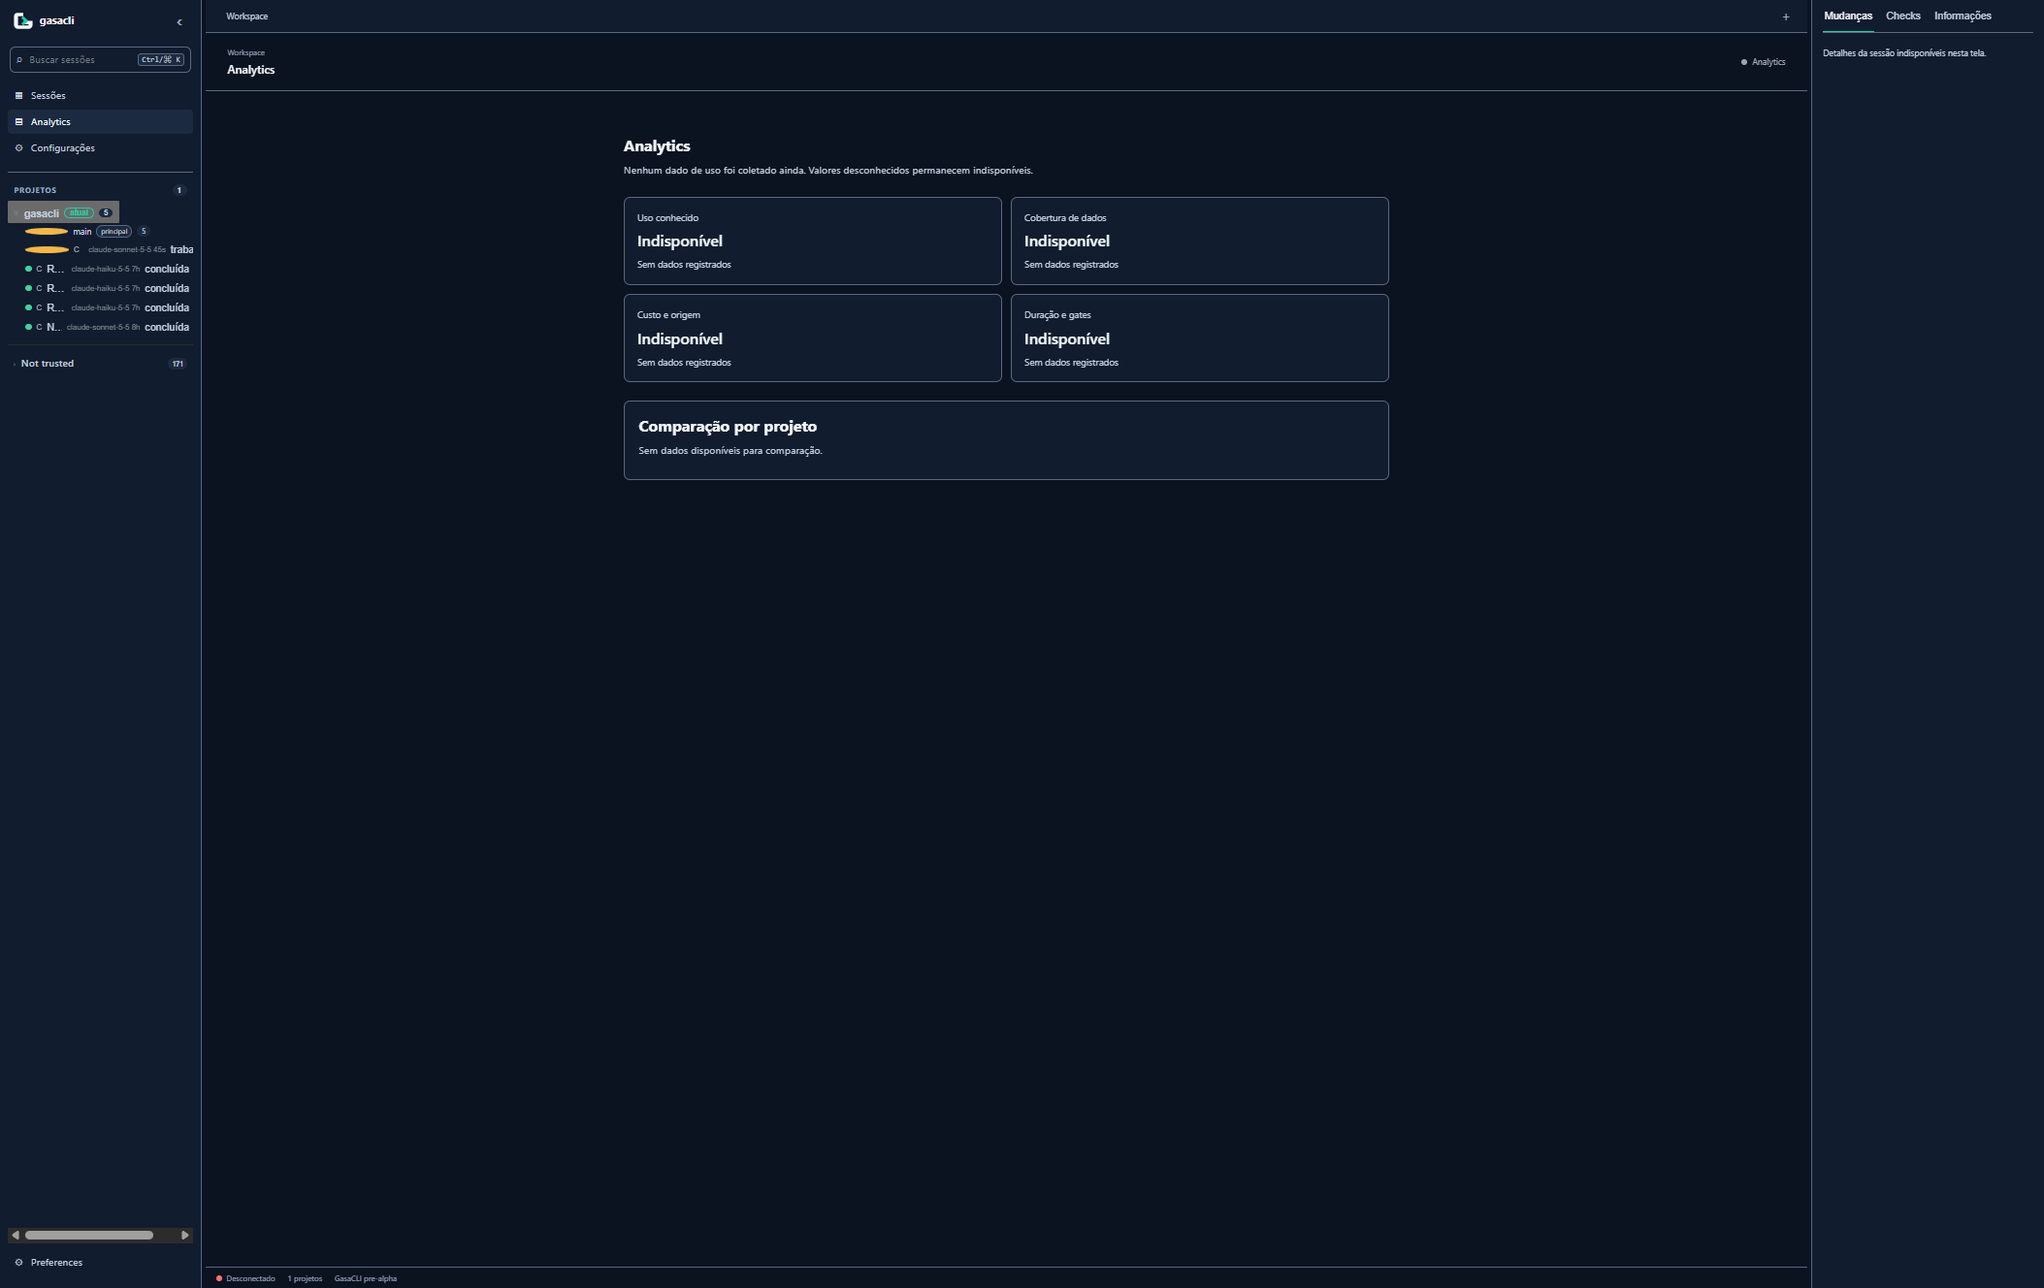
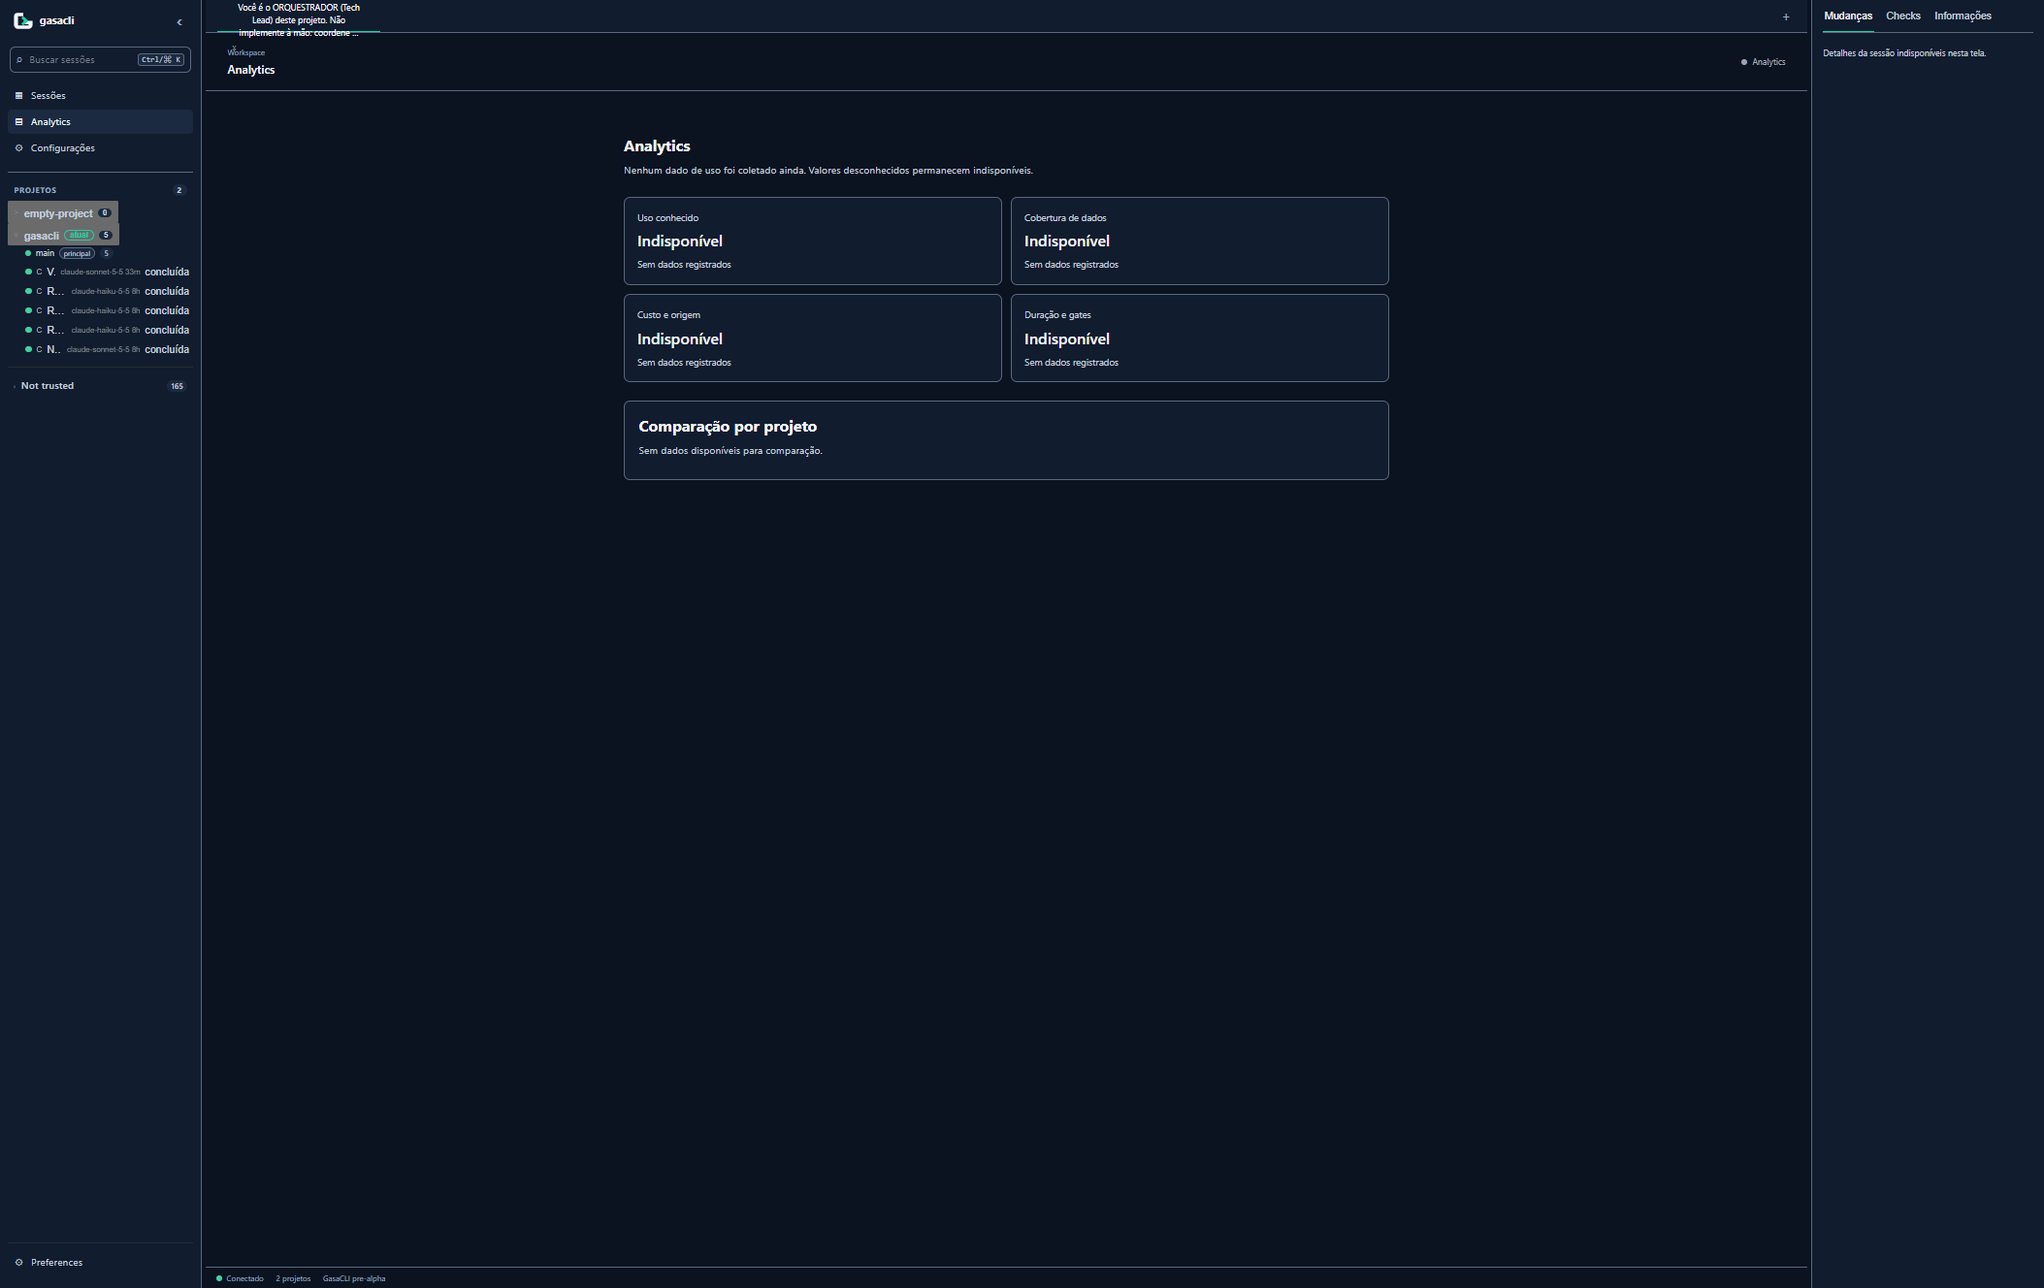
fix(web): canonicalize trusted project paths

diff --git a/internal/web/static/app.js b/internal/web/static/app.js
@@ -9,7 +9,7 @@ function drawProjects(){
  for(const project of state.projects){
   if(!project.trusted){const bucket=el('div','untrusted');const row=el('div','project-row');row.setAttribute('aria-expanded','false');row.append(el('span','chev','›'),el('span','session-name','Not trusted'),el('span','count-badge',String(project.sessionCount)));bucket.append(row);root.append(bucket);continue}
   visible++;const section=el('section','project');const row=el('button','project-row');row.type='button';row.setAttribute('role','treeitem');row.setAttribute('aria-expanded',String(!state.collapsed.has(project.id)));row.append(el('span','chev',state.collapsed.has(project.id)?'>':'v'),el('span','session-name',project.name));if(project.current)row.append(el('span','current-pill','atual'));row.append(el('span','count-badge',String(project.sessionCount)));section.append(row);
-  row.addEventListener('click',()=>{state.activeProject=project.id;state.collapsed.has(project.id)?state.collapsed.delete(project.id):state.collapsed.add(project.id);if(!project.sessionCount)projectOverview(project);drawProjects()});
+  row.addEventListener('click',()=>{state.activeProject=project.id;state.collapsed.has(project.id)?state.collapsed.delete(project.id):state.collapsed.add(project.id);drawProjects();projectOverview(project)});
   if(!state.collapsed.has(project.id)){
    for(const worktree of project.worktrees||[]){const linked=(project.sessions||[]).filter(session=>session.worktreeId===worktree.id);const status=linked.some(session=>session.status==='working')?'working':linked.length?'done':'idle';const branchRow=el('div','branch-row');branchRow.append(el('span',`dot ${status}`),document.createTextNode(worktree.branch||'detached'),el('span','primary-pill',worktree.branch==='main'?'principal':'worktree'),el('span','count-badge',String(linked.length)));section.append(branchRow);for(const session of linked){if(state.search&&!(`${session.title} ${session.model} ${session.agent}`.toLowerCase().includes(state.search)))continue;const button=el('button','session-row'+(state.session?.id===session.id?' active':''));button.type='button';button.setAttribute('role','treeitem');button.setAttribute('aria-label',`${session.status}: ${session.title||'Sessão sem título'}`);const statusLabel=el('span','session-status',session.status==='working'?'trabalhando':session.status==='done'?'concluída':session.status==='error'?'erro':'ociosa');button.append(el('i',`dot ${session.status}`),el('span','agent-glyph',session.agent==='Codex'?'X':'C'),el('span','session-name',session.title||'Sessão sem título'),el('span','meta',`${session.model||session.agent} ${age(session.updatedAt)}`),statusLabel);button.addEventListener('click',()=>openSession(project,session));section.append(button)}}
   }
@@ -50,7 +50,13 @@ function paintTheme(theme){document.documentElement.dataset.theme=theme;const ma
 function addCard(parent,label,value,hint){const card=el('article','overview-card');card.append(el('div','overview-label',label),el('strong','overview-value',value),el('div','overview-hint',hint));parent.append(card)}
 function projectOverview(project){state.view='workspace';state.session=null;$('#crumb').textContent=`Projetos / ${project.name}`;$('#session-title').textContent=project.name;$('#session-state').classList.remove('working');$('#session-state').querySelector('span').textContent='Visão do projeto';$('#working').classList.add('hidden');$('#composer').classList.add('hidden');const chat=$('#chat');chat.replaceChildren();const page=el('section','overview-page');page.setAttribute('aria-labelledby','overview-heading');const heading=el('div','overview-heading');heading.append(el('div','crumb',project.current?'Projeto atual':'Projeto confiável'),el('h2','','Visão geral'),el('p','overview-path',project.path||'Caminho indisponível'));page.append(heading);const cards=el('div','overview-cards');addCard(cards,'Sessões',String(project.sessionCount),'Sessões locais encontradas');addCard(cards,'Agentes prontos','Indisponível','Estado de disponibilidade não coletado');const latest=(project.sessions||[]).reduce((a,b)=>!a||new Date(b.updatedAt)>new Date(a.updatedAt)?b:a,null);addCard(cards,'Última atividade',latest?age(latest.updatedAt):'Indisponível',latest?latest.title:'Nenhuma atividade de sessão encontrada');page.append(cards);if(!project.sessionCount)page.append(el('p','no-sessions','Nenhuma sessão ainda — inicie Claude Code ou Codex nesta pasta.'));const links=el('nav','quick-links');links.setAttribute('aria-label','Links rápidos');const docs=el('a','secondary-button','Abrir documentação');docs.href='https://github.com/GasaTec/gasacli/tree/main/docs';docs.target='_blank';docs.rel='noreferrer';links.append(docs,viewLink('Configurações','settings'),viewLink('Analytics','analytics'));page.append(links);const checklist=el('section','checklist');checklist.append(el('h3','','Próximos passos'));for(const text of ['Inicie Claude Code ou Codex nesta pasta para criar uma sessão.','Selecione uma sessão para consultar mensagens e atividade.','Use o painel lateral para consultar mudanças e informações da sessão.'])checklist.append(el('p','checklist-item',text));page.append(checklist);chat.append(page);$('#detail-content').replaceChildren(el('div','detail-empty','Selecione uma sessão para consultar mudanças, checks e informações.'));$('#composer').classList.add('hidden')}
 function viewLink(label,view){const button=el('button','secondary-button',label);button.type='button';button.addEventListener('click',()=>showView(view));return button}
-function showView(view){state.view=view;state.session=null;$('#working').classList.add('hidden');$('#composer').classList.add('hidden');$('#session-state').classList.remove('working');$('#session-state').querySelector('span').textContent=view==='settings'?'Configurações':'Analytics';$('#crumb').textContent='Workspace';const chat=$('#chat');chat.replaceChildren();$('#detail-content').replaceChildren(el('div','detail-empty','Detalhes da sessão indisponíveis nesta tela.'));if(view==='settings'){renderSettings(chat);$('#session-title').textContent='Configurações';return}$('#session-title').textContent='Analytics';renderAnalytics(chat)}
+function showView(view){
+ state.view=view;state.session=null;$('#working').classList.add('hidden');$('#composer').classList.add('hidden');$('#session-state').classList.remove('working');$('#session-state').querySelector('span').textContent=view==='settings'?'Configurações':view==='workspace'?'Visão do projeto':'Analytics';$('#crumb').textContent='Workspace';
+ const chat=$('#chat');chat.replaceChildren();$('#detail-content').replaceChildren(el('div','detail-empty','Detalhes da sessão indisponíveis nesta tela.'));
+ if(view==='workspace'){const project=state.projects.find(item=>item.id===state.activeProject&&item.trusted)||state.projects.find(item=>item.current&&item.trusted)||state.projects.find(item=>item.trusted);projectOverview(project||{name:'Workspace',path:'',sessionCount:0,sessions:[]});return}
+ if(view==='settings'){renderSettings(chat);$('#session-title').textContent='Configurações';return}
+ $('#session-title').textContent='Analytics';renderAnalytics(chat)
+}
 async function renderSettings(root){const page=el('section','settings-page');page.append(el('p','page-intro','Preferências do dashboard local.'));const group=el('section','settings-group');group.append(el('h2','','Inicialização do dashboard'),el('p','','Escolha quando o dashboard deve iniciar. A alteração é salva na configuração local.'));const label=el('label','setting-label','Modo de inicialização');const select=document.createElement('select');select.id='web-mode';for(const [value,title] of [['auto','Automático'],['manual','Manual'],['always','Sempre']]){const option=document.createElement('option');option.value=value;option.textContent=title;select.append(option)}label.append(select);group.append(label);const save=el('button','primary-button','Salvar modo');save.type='button';const result=el('p','setting-result','');save.addEventListener('click',async()=>{save.disabled=true;try{const response=await fetch('/api/settings',{method:'POST',credentials:'same-origin',headers:{'Content-Type':'application/json',Accept:'application/json'},body:JSON.stringify({webMode:select.value})});if(!response.ok)throw new Error();result.textContent='Modo salvo.'}catch{result.textContent='Não foi possível salvar o modo.'}finally{save.disabled=false}});group.append(save,result);page.append(group);const appearance=el('section','settings-group');appearance.append(el('h2','','Aparência e idioma'));const themeLabel=el('label','setting-label','Tema');const theme=document.createElement('select');for(const value of ['dark','light']){const option=document.createElement('option');option.value=value;option.textContent=value==='dark'?'Escuro':'Claro';theme.append(option)}theme.value=document.documentElement.dataset.theme||'dark';theme.addEventListener('change',()=>paintTheme(theme.value));themeLabel.append(theme);appearance.append(themeLabel);const langLabel=el('label','setting-label','Idioma');const language=document.createElement('select');for(const value of ['pt-BR','en']){const option=document.createElement('option');option.value=value;option.textContent=value==='pt-BR'?'Português (Brasil)':'English';language.append(option)}language.value=localStorage.getItem('gasa-language')||'pt-BR';language.addEventListener('change',()=>{localStorage.setItem('gasa-language',language.value);document.documentElement.lang=language.value});langLabel.append(language);appearance.append(langLabel,el('p','setting-note','Tema e idioma são salvos neste navegador.'));page.append(appearance);root.append(page);try{const settings=await request('/api/settings');select.value=settings.webMode}catch{result.textContent='Modo atual indisponível.'}}
 function renderAnalytics(root){const page=el('section','analytics-page');const heading=el('div','overview-heading');heading.append(el('h2','','Analytics'),el('p','','Nenhum dado de uso foi coletado ainda. Valores desconhecidos permanecem indisponíveis.'));page.append(heading);const cards=el('div','overview-cards');for(const [title,description] of [['Uso conhecido','Indisponível'],['Cobertura de dados','Indisponível'],['Custo e origem','Indisponível'],['Duração e gates','Indisponível']])addCard(cards,title,description,'Sem dados registrados');page.append(cards);const table=el('section','checklist');table.append(el('h3','','Comparação por projeto'),el('p','','Sem dados disponíveis para comparação.'));page.append(table);root.append(page)}
 document.querySelectorAll('[data-view]').forEach(button=>button.addEventListener('click',()=>{document.querySelectorAll('[data-view]').forEach(item=>item.classList.toggle('selected',item===button));showView(button.dataset.view)}));

diff --git a/internal/sessions/sessions_test.go b/internal/sessions/sessions_test.go
@@ -1,6 +1,7 @@
 package sessions
 
 import (
+	"fmt"
 	"os"
 	"path/filepath"
 	"strings"
@@ -99,6 +100,37 @@ func TestScanCodexRecordsUnknownAndMissingRoots(t *testing.T) {
 	if empty := Scan(Roots{Claude: filepath.Join(root, "missing")}); len(empty) != 0 {
 		t.Fatal("missing roots should be skipped")
 	}
+}
+
+func TestScanKeepsCodexSessionsWhenClaudeRootIsFull(t *testing.T) {
+	claudeRoot, codexRoot := t.TempDir(), t.TempDir()
+	project := filepath.ToSlash(t.TempDir())
+	for i := 0; i < maxSessions/2+1; i++ {
+		path := filepath.Join(claudeRoot, fmt.Sprintf("session-%03d.jsonl", i))
+		row := `{"type":"user","cwd":"` + project + `","message":{"role":"user","content":"Claude session"}}`
+		if err := os.WriteFile(path, []byte(row), 0600); err != nil {
+			t.Fatal(err)
+		}
+	}
+	codexFile := filepath.Join(codexRoot, "rollout-test.jsonl")
+	rows := []string{
+		`{"type":"session_meta","payload":{"id":"codex-1","cwd":"` + project + `"}}`,
+		`{"type":"event_msg","payload":{"type":"user_message","message":"Codex session"}}`,
+	}
+	if err := os.WriteFile(codexFile, []byte(strings.Join(rows, "\n")), 0600); err != nil {
+		t.Fatal(err)
+	}
+	got := ScanMetadata(Roots{Claude: claudeRoot, Codex: codexRoot})
+	want := maxSessions/2 + 1
+	if len(got) != want {
+		t.Fatalf("ScanMetadata returned %d sessions, want %d", len(got), want)
+	}
+	for _, session := range got {
+		if session.Agent == "Codex" {
+			return
+		}
+	}
+	t.Fatal("Codex session was omitted when Claude exceeded its scan share")
 }
 
 func TestRedactPrivateKeyBlock(t *testing.T) {

diff --git a/internal/sessions/sessions.go b/internal/sessions/sessions.go
@@ -87,6 +87,17 @@ func scan(roots Roots, metadataOnly bool) []Session {
 	if roots.Claude == "" && roots.Codex == "" {
 		roots = DefaultRoots()
 	}
+	rootCount := 0
+	if roots.Claude != "" {
+		rootCount++
+	}
+	if roots.Codex != "" {
+		rootCount++
+	}
+	perRootLimit := maxSessions
+	if rootCount > 1 {
+		perRootLimit = maxSessions / rootCount
+	}
 	var out []Session
 	for _, root := range []struct{ agent, path string }{{"Claude Code", roots.Claude}, {"Codex", roots.Codex}} {
 		if len(out) >= maxSessions {
@@ -95,8 +106,9 @@ func scan(roots Roots, metadataOnly bool) []Session {
 		if root.path == "" {
 			continue
 		}
+		rootSessions := 0
 		_ = filepath.WalkDir(root.path, func(path string, entry os.DirEntry, err error) error {
-			if len(out) >= maxSessions {
+			if len(out) >= maxSessions || rootSessions >= perRootLimit {
 				return filepath.SkipAll
 			}
 			if err != nil {
@@ -117,6 +129,7 @@ func scan(roots Roots, metadataOnly bool) []Session {
 					session.MessageOffset = 0
 				}
 				out = append(out, session)
+				rootSessions++
 			}
 			return nil
 		})

diff --git a/internal/trust/trust_test.go b/internal/trust/trust_test.go
@@ -7,6 +7,7 @@ import (
 	"os"
 	"os/exec"
 	"path/filepath"
+	"sort"
 	"strings"
 	"sync"
 	"testing"
@@ -58,11 +59,20 @@ func TestTrustedProjects(t *testing.T) {
 	if err := store.Grant(first); err != nil {
 		t.Fatal(err)
 	}
+	want := []string{first, second}
+	for i, path := range []string{first, second} {
+		canonicalPath, err := Canonical(path)
+		if err != nil {
+			t.Fatal(err)
+		}
+		want[i] = canonicalPath
+	}
+	sort.Strings(want)
 	got, err := store.TrustedProjects()
 	if err != nil {
 		t.Fatal(err)
 	}
-	if len(got) != 2 || got[0] != first && got[0] != second || got[1] != first && got[1] != second || got[0] >= got[1] {
+	if len(got) != len(want) || got[0] != want[0] || got[1] != want[1] {
 		t.Fatalf("TrustedProjects() = %#v, want sorted canonical paths", got)
 	}
 }

diff --git a/internal/web/api.go b/internal/web/api.go
@@ -92,6 +92,16 @@ func buildSnapshot(home string, roots sessions.Roots, current ...string) snapsho
 		if err != nil {
 			continue
 		}
+		if trusted {
+			root, err = trust.Canonical(root)
+			if err != nil {
+				continue
+			}
+			worktreeRoot, err = trust.Canonical(worktreeRoot)
+			if err != nil {
+				worktreeRoot = root
+			}
+		}
 		id := projectID(root)
 		if trusted {
 			session.Branch = sessions.Branch(session.CWD)

diff --git a/docs/design/screens-real/README.md b/docs/design/screens-real/README.md
@@ -1,0 +1,29 @@
+# Real dashboard browser evidence
+
+All PNGs below came from the local Orca browser session against the temporary `GASACLI_HOME` and the real `gasa` binary. Files are under 600 KB. The session-chat capture contains real local transcript content with tool calls collapsed; it does not expose the single-use login code.
+
+| Design screen | Real view / evidence | Coverage |
+|---|---|---|
+| web-01 first-run connect code | Single-use `#code` exchange was exercised in the browser; transient login screen is not retained. | Login succeeded and authenticated API/SSE requests. |
+| web-02 workspace shell | `workspace-shell.png` | Three-pane shell, projects, tabs and status bar. |
+| web-03 project overview | `project-overview.png` | Current trusted project, session count, links and checklist. |
+| web-04 session chat | `session-chat.png` | Real Claude transcript and collapsed tool calls. |
+| web-05 run DAG; web-06 roles; web-07 message bus | Planned; no corresponding runtime data/view. | Intentionally not implemented. |
+| web-08 global analytics; web-09 project analytics | `analytics.png` | Honest unavailable/no-usage-data state; no fabricated metrics. |
+| web-10 monitor; web-11 logs; web-12 approvals; web-13 prompts; web-14 skills; web-15 plugins; web-16 brain; web-17 backup | Planned; no corresponding runtime data/view. | Intentionally not implemented. |
+| web-18 settings | `settings.png` | Existing launch mode, language and dark/light settings. |
+| web-19 cloud activation; web-20 sync | Planned; no cloud account or sync backend. | Intentionally not implemented. |
+| web-21 empty/loading/error/offline | `empty-state.png`, `disconnect-state.png` | Empty trusted project and SSE reconnect state. API permission/server error variants were not exercised. |
+| web-22 mobile/narrow | Responsive CSS inspected; no narrow-viewport browser capture. | Narrow/mobile browser behavior remains unverified. |
+
+## Defect evidence
+
+1. **SSE disconnected — fixed.** `TestLaunchCodeAuthenticatesProjectsAndSSE` exercises single-use login, cookie-authenticated projects and an SSE stream that remains open. In the real browser the status changed to `Conectado`; after stopping the local server it changed to `Reconectando`.
+2. **Trusted projects without sessions — fixed.** The browser listed `empty-project` with zero sessions and displayed its overview. The launched `gasacli` project was listed as current.
+3. **Empty center — fixed.** `empty-state.png` shows the project cards, quick links, zero-session message and checklist.
+4. **Analytics and Settings — fixed.** Both navigation items open real views; unknown analytics remain unavailable rather than zero. Settings uses the existing config writer.
+5. **Brand — fixed.** The sidebar mark and favicon use the local G+chevron asset; no external assets are loaded.
+6. **Workspace/session data — fixed for inspected paths.** The real browser displayed trusted project sessions, transcript messages and collapsed tool calls. Codex transcript rendering was not independently confirmed in this run; sensitive tool output is collapsed by default.
+7. **Light theme and narrow layout — partial.** Light/dark controls and responsive breakpoints exist in the implementation, but narrow/mobile behavior was not verified in a real narrow browser viewport.
+
+The SSE root cause was the server-wide `WriteTimeout` expiring the long-lived event stream. The server now leaves streaming writes open, the handler flushes each event and applies a bounded per-write deadline; the browser opens the authenticated stream and retries with backoff after disconnect.
